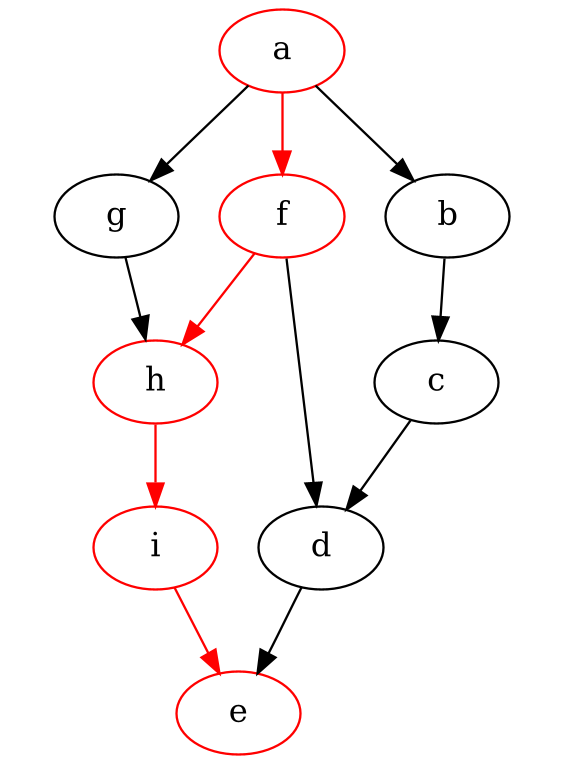
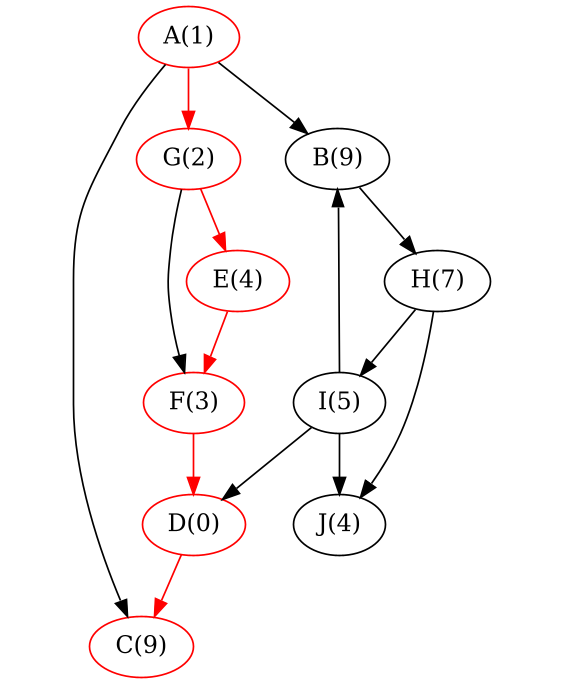
Cpm.go was fixed

diff --git a/02-module/10-Cpm/Cpm.go b/02-module/10-Cpm/Cpm.go
@@ -49,6 +49,16 @@ func InitVertex(name string, time int) *Vertex {
 	return v
 }
 
+func FindChild() bool {
+	for e := PV.children.Front(); e != nil; e = e.Next() {
+		u := e.Value.(*Vertex)
+		if u == CV {
+			return true
+		}
+	}
+	return false
+}
+
 func FindByName(name string) *Vertex {
 	for _, v := range VS {
 		if v.name == name {
@@ -69,7 +79,7 @@ func FindRoot() *Vertex {
 
 func FindEnd() *Vertex {
 	for _, v := range VS {
-		if v.children.Front() == nil {
+		if v.children.Front() == nil && v.status != 0 {
 			return v
 		}
 	}
@@ -138,7 +148,7 @@ func Job() {
 	if !isInitialisation {
 		CV = FindByName(name)
 	}
-	if PV != nil {
+	if PV != nil && !FindChild() {
 		CV.parents.PushBack(PV)
 		PV.children.PushBack(CV)
 	}
@@ -215,18 +225,8 @@ func PrintVertices() {
 func CheckForCycles() {
 	TIME, COUNT = 1, 1
 	Tarjan()
-	comps := make([]list.List, COUNT-1)
-	for _, v := range VS {
-		comps[v.comp-1].PushBack(v)
-	}
-	for _, l := range comps {
-		if l.Len() != 1 {
-			for e := l.Front(); e != nil; e = e.Next() {
-				u := e.Value.(*Vertex)
-				u.status = 0
-			}
-		}
-	}
+	MarkCycleVertices()
+	MarkCycleChildren()
 }
 
 func Tarjan() {
@@ -260,6 +260,44 @@ func VisitVertexTarjan(v *Vertex, s *Stack) {
 			}
 		}
 		COUNT++
+	}
+}
+
+func MarkCycleVertices() {
+	comps := make([]list.List, COUNT-1)
+	for _, v := range VS {
+		comps[v.comp-1].PushBack(v)
+	}
+	for _, l := range comps {
+		if l.Len() != 1 {
+			for e := l.Front(); e != nil; e = e.Next() {
+				u := e.Value.(*Vertex)
+				u.status = 0
+			}
+		}
+	}
+}
+
+func MarkCycleChildren() {
+	for _, v := range VS {
+		if v.status == 0 {
+			for e := v.children.Front(); e != nil; e = e.Next() {
+				u := e.Value.(*Vertex)
+				if u.status == -1 {
+					hasValidParents := false
+					for e := u.parents.Front(); e != nil; e = e.Next() {
+						w := e.Value.(*Vertex)
+						if w.status == -1 {
+							hasValidParents = true
+							break
+						}
+					}
+					if !hasValidParents {
+						u.status = 0
+					}
+				}
+			}
+		}
 	}
 }
 
@@ -313,10 +351,11 @@ func PrintGraph() {
 	fmt.Println("digraph {")
 	for _, v := range VS {
 		fmt.Printf("\t%s", v.name)
+		fmt.Printf(" [label=\"%s(%d)\"", v.name, v.time)
 		if v.status == 1 {
-			fmt.Print(" [color=red]")
+			fmt.Print(", color=red")
 		}
-		fmt.Println()
+		fmt.Println("]")
 	}
 	for _, v := range VS {
 		for e := v.children.Front(); e != nil; e = e.Next() {
@@ -336,6 +375,7 @@ func main() {
 	NextSym()
 
 	Sentences()
+
 	CheckForCycles()
 
 	r := FindRoot()
